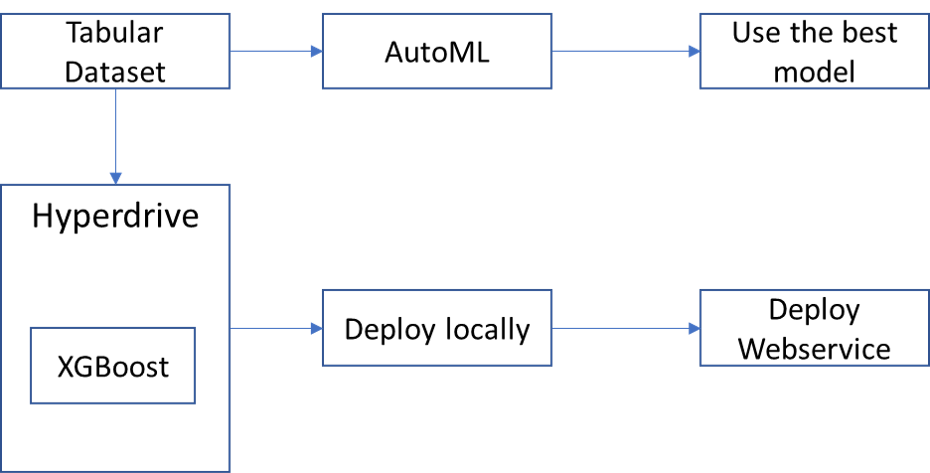
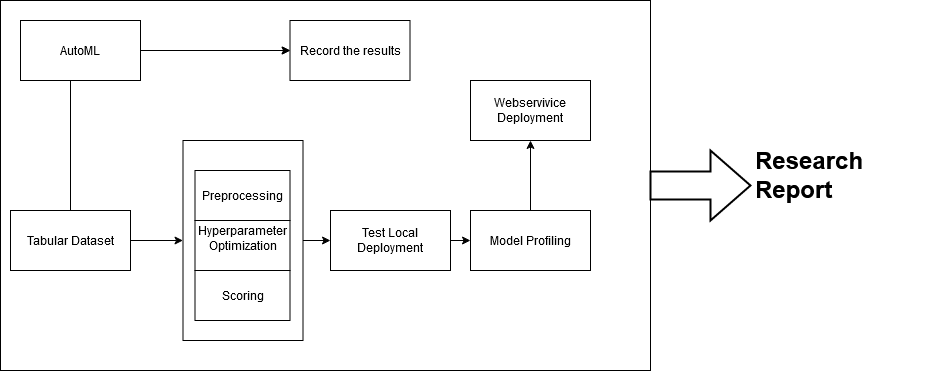
added model profiling

diff --git a/.ipynb_checkpoints/Readme-checkpoint.md b/.ipynb_checkpoints/Readme-checkpoint.md
@@ -179,7 +179,7 @@ It is usually easier to debug your model locally before deploying it as a Webser
 
 ![HPO](img/local_docker.PNG?raw=true "local deployment")
 
-### **Model Profiling
+### **Model Profiling**
 Once the model is ready and registered for deployment, we can determine the CPU and memory the deployed service will need. Profiling tests the service that runs the model and returns information such as the CPU usage, memory usage, and response latency. It also provides a recommendation for the CPU and memory based on resource usage.
 
 ```

diff --git a/Readme.md b/Readme.md
@@ -179,7 +179,7 @@ It is usually easier to debug your model locally before deploying it as a Webser
 
 ![HPO](img/local_docker.PNG?raw=true "local deployment")
 
-### **Model Profiling
+### **Model Profiling**
 Once the model is ready and registered for deployment, we can determine the CPU and memory the deployed service will need. Profiling tests the service that runs the model and returns information such as the CPU usage, memory usage, and response latency. It also provides a recommendation for the CPU and memory based on resource usage.
 
 ```
